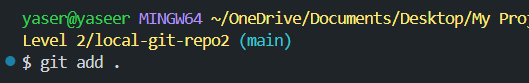
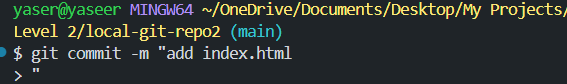
add all new screenshots

diff --git a/README.md b/README.md
@@ -4,25 +4,58 @@
 
 ![alt text](image.png)
 
+
+
 # Part 2- Adding and Committing Changes
+-create and add a file
 
 ## Image Example
 
 ![alt text](image-2.png)
 
-# Part 3- Connecting to GitHub and Pushing Changes
+-commit the changes
 
 ## Image Example
+
+![alt text](image-1.png)
+
+
+
+# Part 3- Connecting to GitHub and Pushing Changes
+-Create a repository on GitHub
+-Connect and Push to GitHub
+
+## Image Example
+
+![alt text](image-3.png)
 
 
 
 # Part 4- Working with Branches
+-Create and switch to a new branch
 
 ## Image Example
+
+![alt text](image-4.png)
+
+-Make changes to index.html and commit them:
+
+## Image Example
+
+![alt text](image-5.png)
 
 
 
 # Part 5- Mergine and Rebasing
+-Merge the Dev branch into main
 
 ## Image Example
+
+![alt text](image-6.png)
+
+-Rebase the dev branch onto main
+
+## Image Example
+
+![alt text](image-7.png)
 
